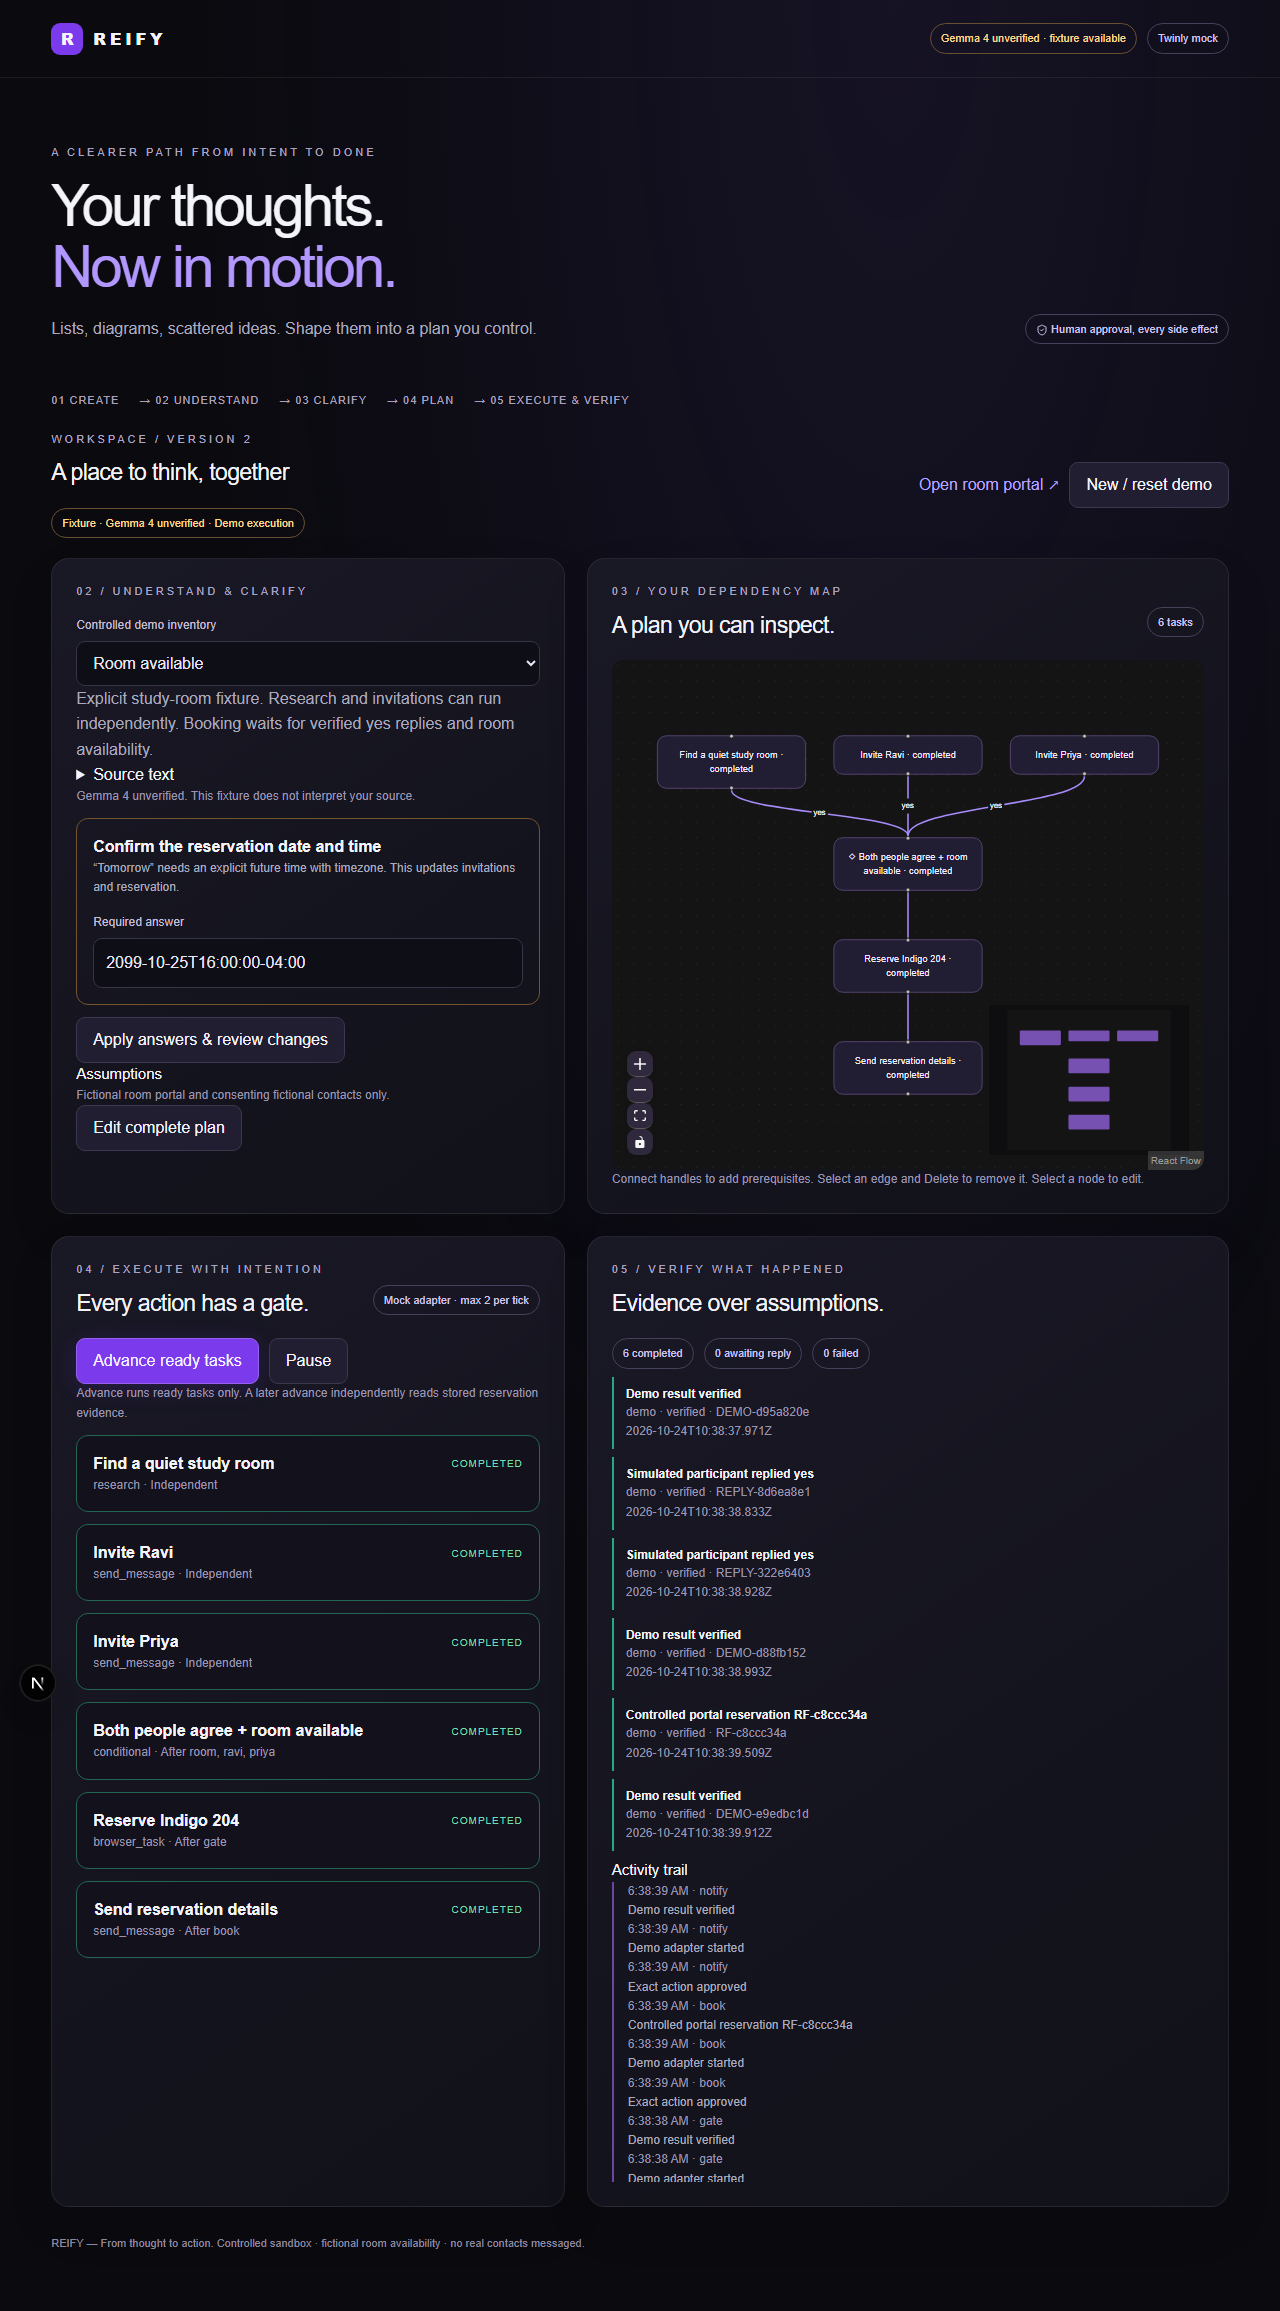
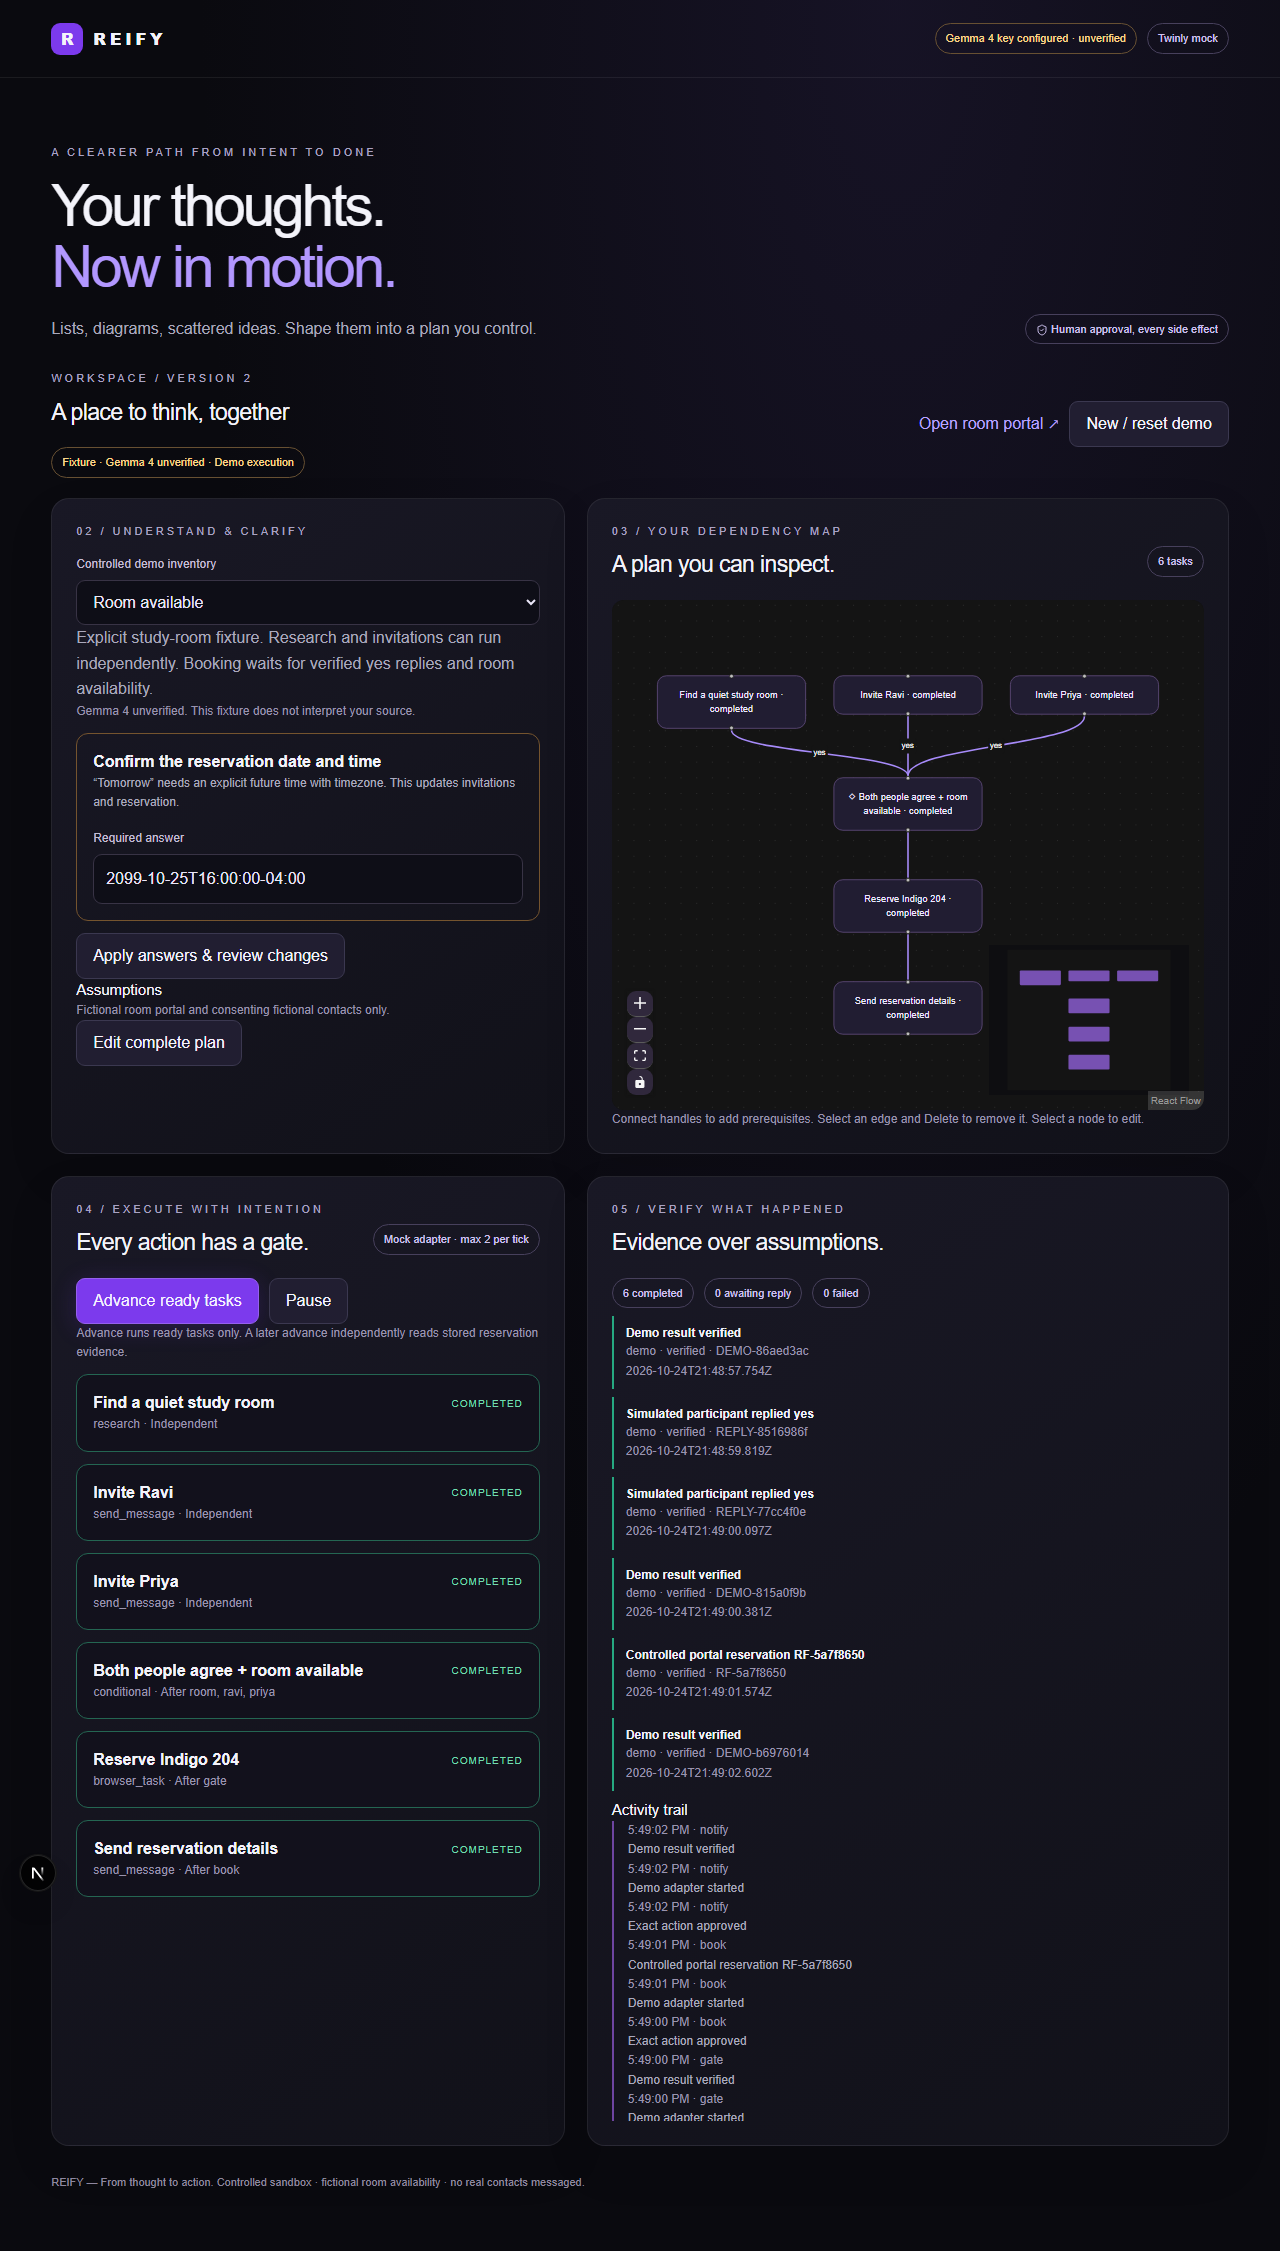
Repair cross-platform lockfile and record clean-install evidence

diff --git a/docs/TEST_REPORT.md b/docs/TEST_REPORT.md
@@ -48,3 +48,15 @@ No live model call, Twinly action or deployment is included in these PASS result
 UI follow-up: removed the complete study-room example panel from the start screen and expanded the input panel. Browser demo tests now create their labeled fixture through the existing API rather than through the removed example cards. No execution/provider behavior changed.
 
 Gemma live follow-up: a direct text request to gemma-4-26b-a4b-it succeeded with the configured private key. Full parsing failed with the previous settings and generic error. After selecting the documented MINIMAL thinking level, the real /api/parse request for a synthetic college-laptop planning input succeeded in 10.2 seconds, returning 2 tasks and 1 clarification question (mode gemma). No user source, model response text, or key logged. Unit tests: 36 PASS; typecheck PASS. Real image inference is still not established by this check. Added distinct timeout/400/500/503 errors; the precise original provider failure was not retained, so its root cause is not proven.
+
+## Repository and easy-install release
+
+Public source repository created and pushed: https://github.com/parvathinalla/reify (main).
+Added cross-platform setup/launch/doctor, detailed installation/user/troubleshooting/roadmap guides, contributor/security docs, GitHub issue/PR templates and Linux/Windows/macOS CI.
+
+Actual local checks: npm run check PASS (lint, typecheck, 36 unit tests, production build); secret scan PASS for publishable files and existing history; private-environment preservation PASS byte-for-byte.
+The first browser rerun during a concurrent clean dependency install hit five 30-second scenario timeouts, with five checks passing. These are recorded as a failed run, not passing evidence. A clean-install launcher smoke test and subsequent browser rerun are being completed separately. CI status must be read from actual GitHub runs; no remote PASS is assumed.
+No credentials, .env.local, .data or private source uploads were published. The public .env.example was cleared before commit/push.
+Final installer evidence: clean Windows clone installed via npm run launch -- --port 3001, created a blank private environment, started successfully and returned HTTP 200. Its doctor check confirmed both provider keys absent and dependencies prepared; its 36 unit tests passed. Existing private-environment preservation was checked separately byte-for-byte. A warmed-server browser rerun with npm run test:e2e -- --timeout=120000 passed all 10 checks (29.8 seconds total; each scenario under 30 seconds).
+
+The first GitHub matrix run failed at npm ci: npm 11.19 detected missing optional @emnapi core/runtime entries from the older Windows-generated lockfile. Regenerated the lockfile with npm 11.19 in a directory without node_modules, then passed npm 11.19 ci --dry-run. Remote rerun results are recorded only after actual completion.

diff --git a/docs/MAC_HANDOFF.md b/docs/MAC_HANDOFF.md
@@ -1,6 +1,6 @@
 # Mac handoff — next live milestone
 
-1. Install dependencies from the lockfile. PowerShell: `Copy-Item .env.example .env.local`; macOS: `cp .env.example .env.local`. Run `npm ci`, then `npm run dev`. Both use http://127.0.0.1:3000. Keep Node 24 LTS.
+1. Install Node 24 LTS, clone https://github.com/parvathinalla/reify, enter the project folder, and run `npm run launch`. Dependencies and an empty private .env.local are prepared automatically; existing settings are preserved. Open http://127.0.0.1:3000. See INSTALLATION.md for details.
 2. Install/open Twinly from https://twinly.tech on Mac, sign in, accept Terms, redeem `GATORHACKVTWINLY` in Account / Developer API, create scoped project key and put it only in server `.env.local`. The voucher is not a key. Enable Mac jobs and keep Mac awake.
 3. Visit `/api/twinly/health`. Confirm `online`, per-family `setup`, and `can.mac` scopes. `lib/twinly.ts` implements /me, message, task, job poll and cancellation from the checked-in official OpenAPI. Live mutation routes are intentionally absent. A configured key is not proof of capability.
 4. In a local server-only harness, verify one benign /tasks request and its polled job result; then one exact approved message to a consenting teammate. Never paste credentials or real contact details into source/chat. Scope-check endpoint families before enabling them in production. On 503/timeout after submission, reconcile known jobs; never blindly resend. Preserve needs_approval and delivered=null as pending/inconclusive. Do not interpret send success as agreement. Real reply classification/identity binding and independent delivery verification remain to be connected.
@@ -8,7 +8,7 @@
 
 ## Remaining integration work
 
-The Windows build is an end-to-end local **demo**, with a real Gemma parsing code path but no key. Twinly adapter HTTP contract tests pass; actual Mac jobs, readiness scopes, cancellation and real replies are unverified. `EXECUTION_MODE=live` does not turn on external mutations yet. This is deliberate. Add a durable database and account auth before exposing live execution on Vercel.
+The Windows build includes an end-to-end local **demo** and a successful real Gemma 4 text parse. Configured credentials stay private; live Twinly execution remains unverified. Twinly adapter HTTP contract tests pass; actual Mac jobs, readiness scopes, cancellation and real replies are unverified. `EXECUTION_MODE=live` does not turn on external mutations yet. This is deliberate. Add a durable database and account auth before exposing live execution on Vercel.
 
 Gemma test: `node --env-file-if-exists=.env.local scripts/check-gemma.cjs`. Then exercise real handwritten photo + typed paragraph for each format through the UI and record actual model outcomes. Never substitute Gemini under a Gemma badge.
 

diff --git a/docs/DEVPOST.md b/docs/DEVPOST.md
@@ -8,7 +8,7 @@ Solution: Reify offers three input formats, a server-side Gemma 4 interpretation
 
 Built with: Next.js App Router, React, TypeScript, Tailwind, React Flow, Zod, Google GenAI SDK, Vitest and Playwright.
 
-Actually demonstrated on Windows: labeled fixtures, clarification, graph editing, human approvals, persisted demo reservation and confirmation evidence. Live Gemma inference was not run because no key was supplied. Twinly official adapter exists and has mocked contract tests; live Mac integration is pending. No real messaging or university room reservation has been performed.
+Actually demonstrated on Windows: labeled fixtures, clarification, graph editing, human approvals, persisted demo reservation and confirmation evidence. A real Gemma 4 text interpretation succeeded locally; real image inference still needs verification. Twinly official adapter exists and has mocked contract tests; live Mac integration is pending. No real messaging or university room reservation has been performed.
 
 Challenges: untrusted model JSON, ambiguous dates, unknown replies, stale approvals, DAG validation, deduplication and honest provider status.
 

diff --git a/docs/INSTALLATION.md b/docs/INSTALLATION.md
@@ -18,6 +18,8 @@ Alternatively, download GitHub's ZIP, extract it, open a terminal in the folder 
 
 The first launch installs exact lockfile dependencies with npm ci, creates a private .env.local if missing, and starts Next.js. Later launches reuse dependencies until the lockfile changes. Existing private settings are never overwritten. No provider actions happen during setup.
 
+The first install can take several minutes depending on your network and disk speed, especially on Windows. Later launches skip installation when the lockfile is unchanged.
+
 ## Add Gemma access
 
 Open .env.local and replace only the empty GEMINI_API_KEY value with your own key from [Google AI Studio](https://aistudio.google.com/apikey). Leave GEMMA_MODEL as gemma-4-26b-a4b-it. Save, stop the server, and run npm run launch again.
